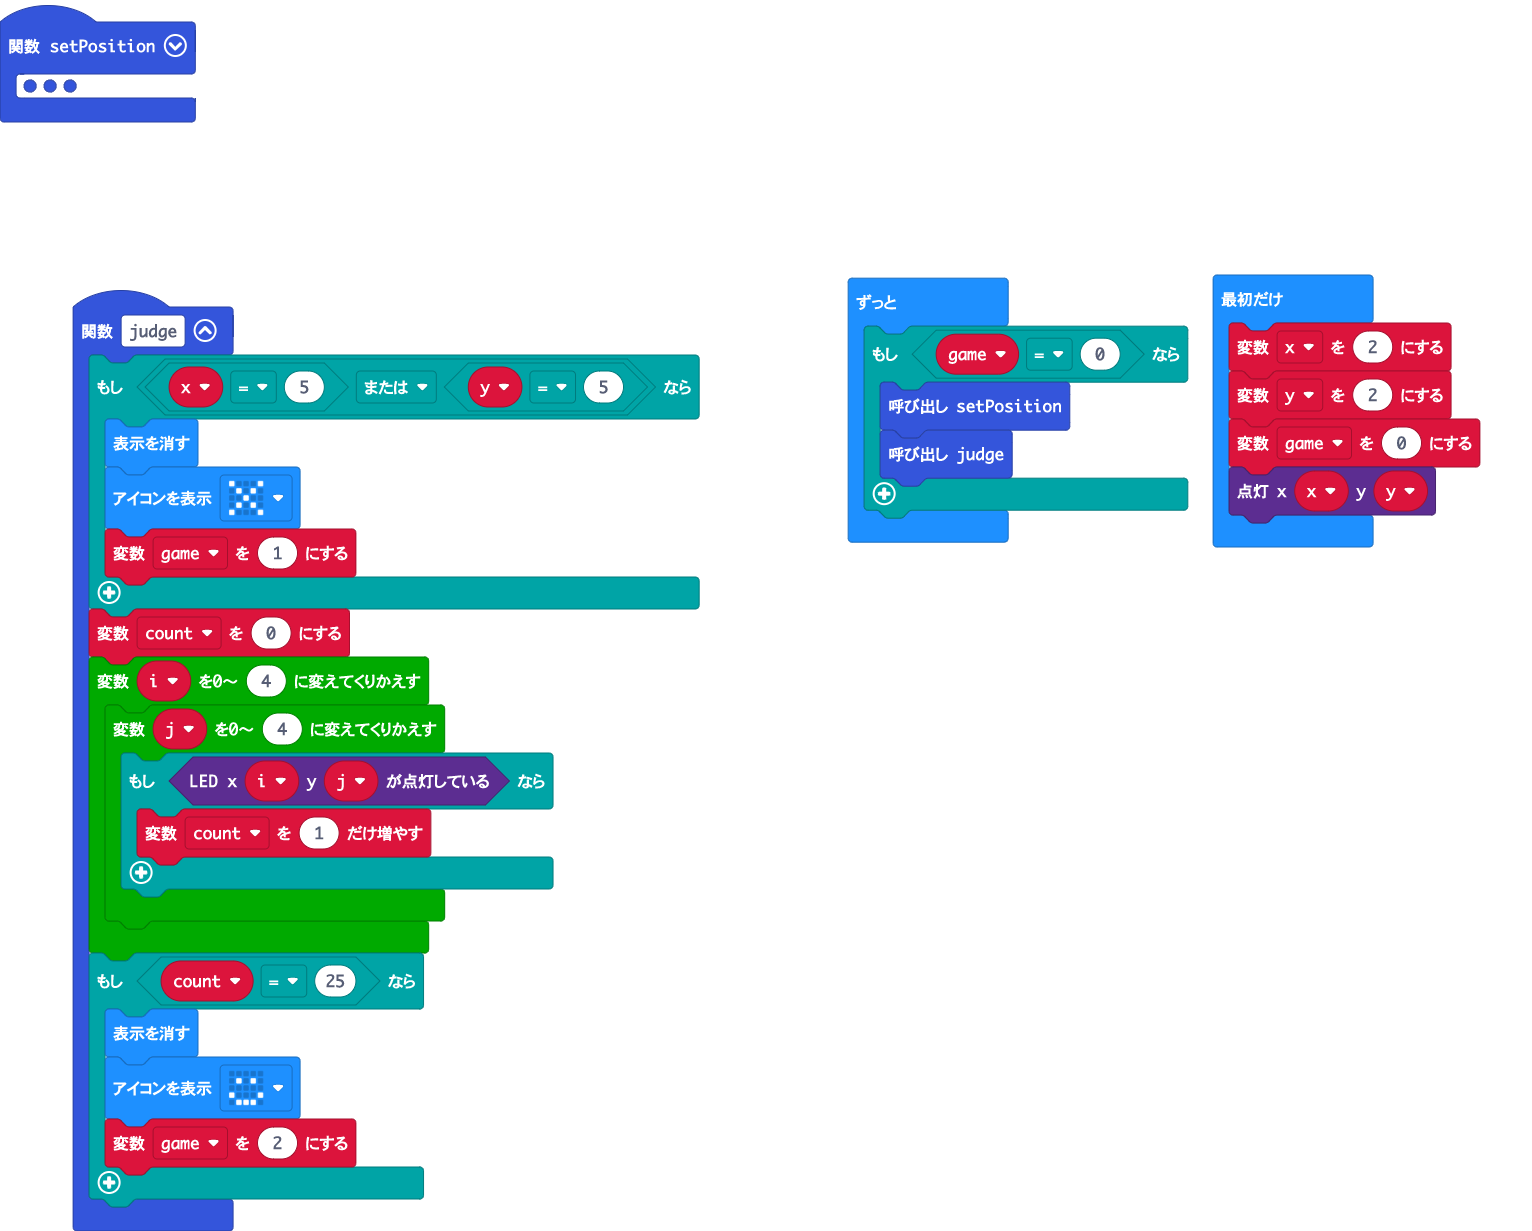
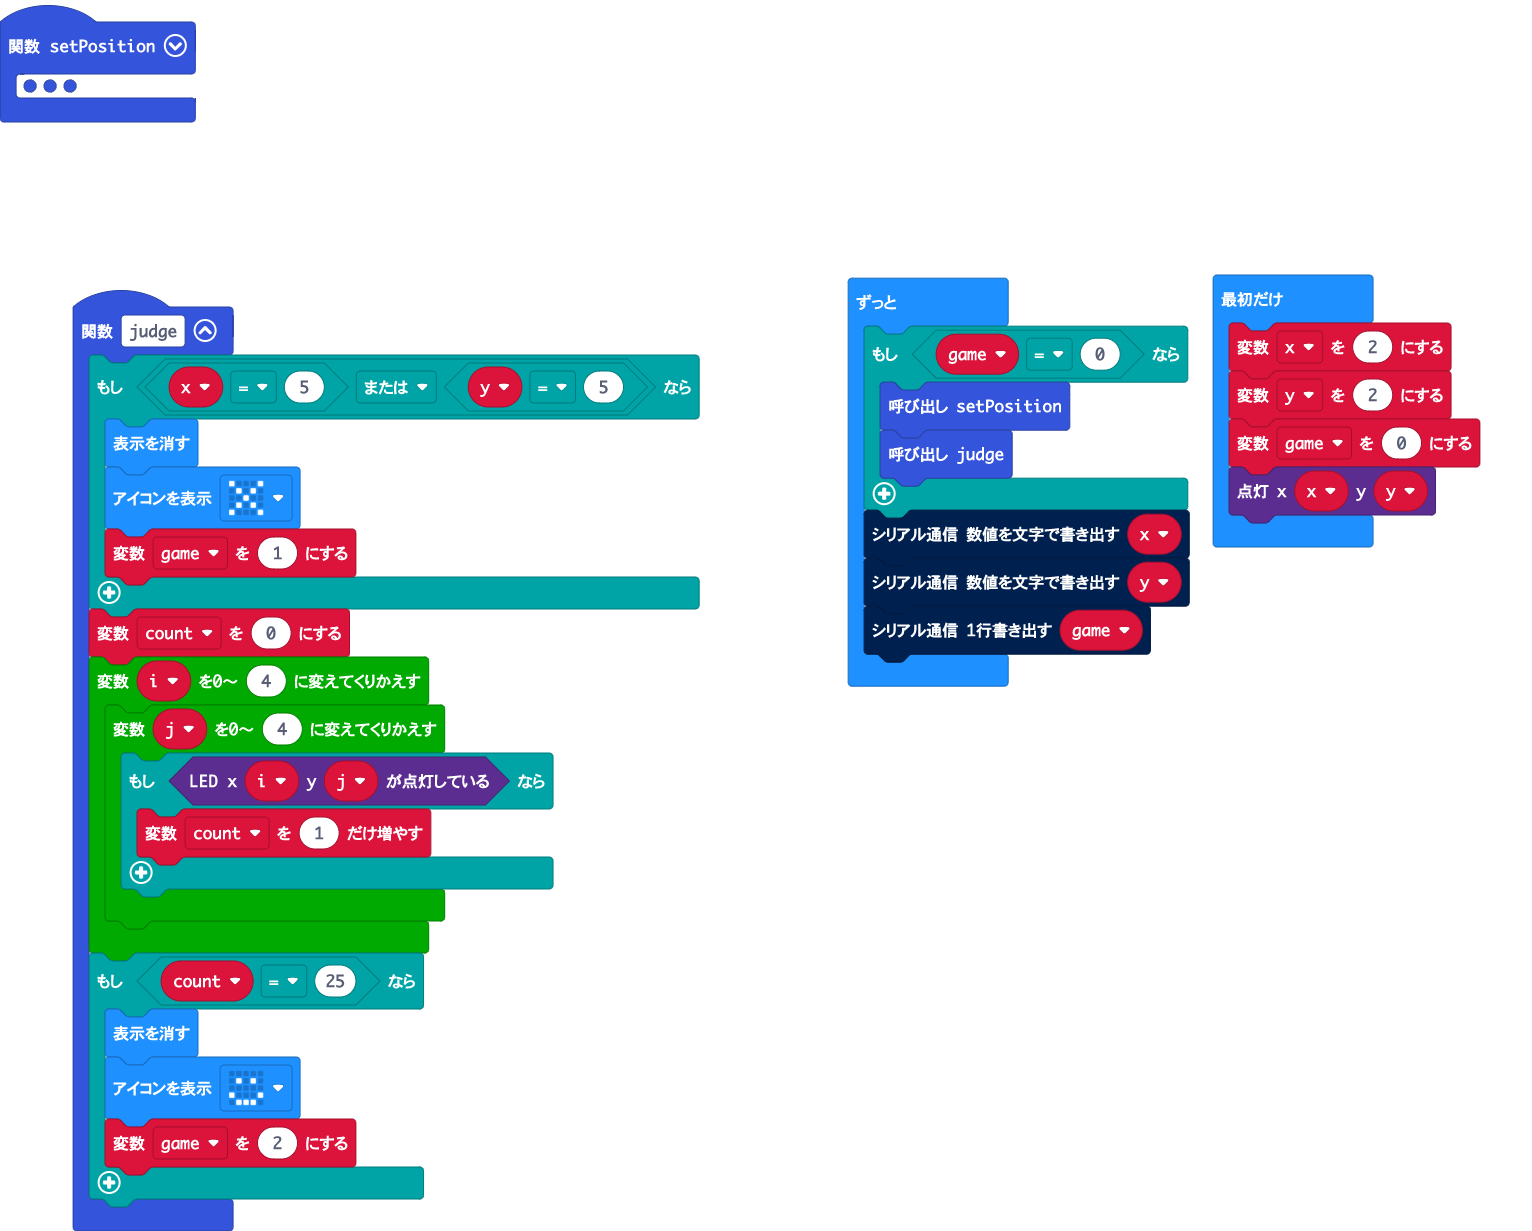
更新 main.blocks, main.ts

Changed region(s): [[0.5522, 0.4013, 0.7977, 0.5556]]

diff --git a/main.ts b/main.ts
@@ -60,4 +60,7 @@ basic.forever(function () {
         setPosition()
         judge()
     }
+    serial.writeNumber(x)
+    serial.writeNumber(y)
+    serial.writeLine("" + (game2))
 })
